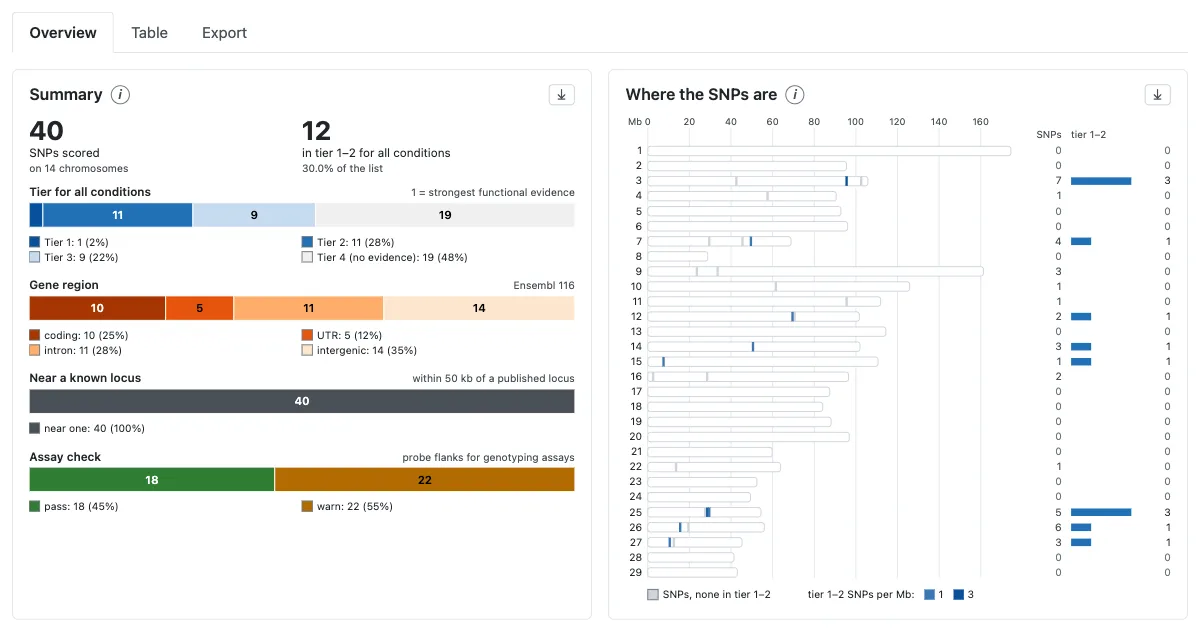
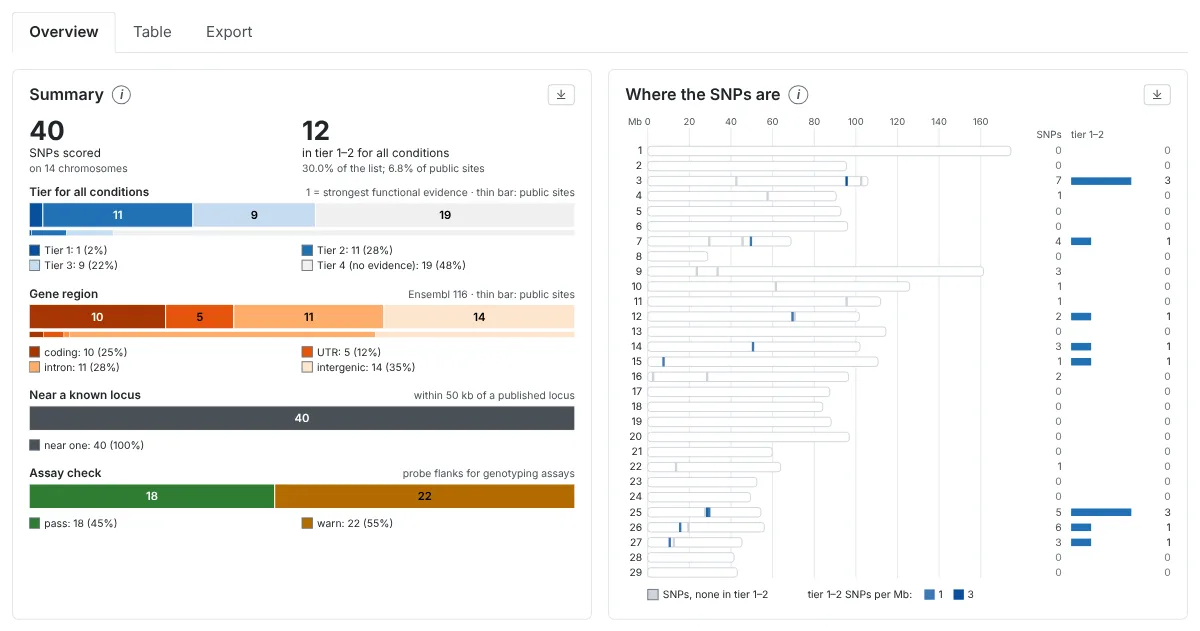
Guided tour: screenshots retaken after Push 3 (the Design panel's new cards)
Claude-Session: https://claude.ai/code/session_013tLMKGRbeL9wDnLD2URdT3

diff --git a/snpportal/snpportal/static/snpportal/tour/tour.css b/snpportal/snpportal/static/snpportal/tour/tour.css
@@ -1,39 +1,39 @@
 /* Written by `python manage.py tour_images` with the images: each slide's numbered callout boxes, in % of its image. */
 #tour-overview img { aspect-ratio: 1200 / 632; }
-#tour-overview-1 { left: 24.83%; top: 17.51%; width: 13.05%; height: 8.26%; }
+#tour-overview-1 { left: 24.83%; top: 17.51%; width: 12.96%; height: 8.42%; }
 #tour-overview-2 { left: 2.10%; top: 31.47%; width: 46.14%; height: 5.15%; }
 #tour-overview-3 { left: 50.34%; top: 10.28%; width: 48.99%; height: 88.45%; }
 #tour-overview-4 { left: 0.67%; top: 1.27%; width: 98.66%; height: 7.73%; }
-#tour-score img { aspect-ratio: 1200 / 524; }
-#tour-score-1 { left: 0.67%; top: 19.11%; width: 56.99%; height: 16.91%; }
-#tour-score-2 { left: 0.67%; top: 37.56%; width: 56.99%; height: 7.56%; }
-#tour-score-3 { left: 0.67%; top: 46.66%; width: 56.99%; height: 9.31%; }
-#tour-score-4 { left: 0.67%; top: 60.26%; width: 56.99%; height: 38.20%; }
-#tour-table img { aspect-ratio: 1200 / 619; }
-#tour-table-1 { left: 78.51%; top: 21.87%; width: 21.49%; height: 76.83%; }
-#tour-table-2 { left: 0.75%; top: 16.94%; width: 3.22%; height: 36.59%; }
-#tour-table-3 { left: 15.24%; top: 22.96%; width: 11.16%; height: 4.22%; }
-#tour-table-4 { left: 79.25%; top: 10.46%; width: 11.64%; height: 6.32%; }
+#tour-score img { aspect-ratio: 1200 / 523; }
+#tour-score-1 { left: 0.67%; top: 19.15%; width: 56.99%; height: 16.73%; }
+#tour-score-2 { left: 0.67%; top: 37.42%; width: 56.99%; height: 7.58%; }
+#tour-score-3 { left: 0.67%; top: 46.54%; width: 56.99%; height: 9.33%; }
+#tour-score-4 { left: 0.67%; top: 60.18%; width: 56.99%; height: 38.28%; }
+#tour-table img { aspect-ratio: 1200 / 637; }
+#tour-table-1 { left: 79.60%; top: 21.25%; width: 20.40%; height: 77.49%; }
+#tour-table-2 { left: 0.75%; top: 16.46%; width: 3.30%; height: 35.55%; }
+#tour-table-3 { left: 15.71%; top: 22.31%; width: 11.39%; height: 4.10%; }
+#tour-table-4 { left: 78.89%; top: 10.16%; width: 11.87%; height: 6.14%; }
 #tour-card img { aspect-ratio: 1200 / 667; }
-#tour-card-1 { left: 48.48%; top: 8.50%; width: 45.63%; height: 9.76%; }
-#tour-card-2 { left: 80.82%; top: 24.47%; width: 15.38%; height: 5.06%; }
+#tour-card-1 { left: 48.43%; top: 8.50%; width: 45.63%; height: 9.76%; }
+#tour-card-2 { left: 80.56%; top: 24.47%; width: 15.57%; height: 5.06%; }
 #tour-card-3 { left: 54.07%; top: 63.94%; width: 27.55%; height: 25.90%; }
 #tour-card-4 { left: 42.68%; top: 91.32%; width: 56.01%; height: 7.23%; }
-#tour-locus img { aspect-ratio: 1200 / 651; }
-#tour-locus-1 { left: 26.14%; top: 1.74%; width: 4.74%; height: 5.65%; }
-#tour-locus-2 { left: 0.63%; top: 20.76%; width: 98.74%; height: 20.29%; }
-#tour-locus-3 { left: 86.47%; top: 73.69%; width: 8.65%; height: 4.35%; }
-#tour-locus-4 { left: 0.63%; top: 93.62%; width: 94.97%; height: 5.22%; }
+#tour-locus img { aspect-ratio: 1200 / 657; }
+#tour-locus-1 { left: 26.17%; top: 1.72%; width: 4.84%; height: 5.60%; }
+#tour-locus-2 { left: 0.63%; top: 20.55%; width: 98.74%; height: 21.09%; }
+#tour-locus-3 { left: 86.49%; top: 73.96%; width: 8.63%; height: 4.30%; }
+#tour-locus-4 { left: 0.63%; top: 93.69%; width: 94.97%; height: 5.17%; }
 #tour-panel img { aspect-ratio: 1200 / 816; }
 #tour-panel-1 { left: 2.42%; top: 13.09%; width: 45.83%; height: 8.52%; }
-#tour-panel-2 { left: 2.42%; top: 35.52%; width: 45.83%; height: 24.15%; }
-#tour-panel-3 { left: 2.42%; top: 66.68%; width: 45.83%; height: 9.56%; }
+#tour-panel-2 { left: 2.42%; top: 35.38%; width: 45.83%; height: 24.15%; }
+#tour-panel-3 { left: 2.42%; top: 95.55%; width: 45.83%; height: 4.45%; }
 #tour-panel-4 { left: 50.33%; top: 6.47%; width: 48.67%; height: 22.08%; }
 #tour-gwas img { aspect-ratio: 1200 / 731; }
 #tour-gwas-1 { left: 71.23%; top: 36.28%; width: 2.04%; height: 3.35%; }
-#tour-gwas-2 { left: 2.04%; top: 82.59%; width: 24.25%; height: 16.37%; }
-#tour-gwas-3 { left: 41.59%; top: 82.59%; width: 32.03%; height: 16.37%; }
+#tour-gwas-2 { left: 2.04%; top: 82.59%; width: 24.28%; height: 16.37%; }
+#tour-gwas-3 { left: 41.79%; top: 82.59%; width: 31.72%; height: 16.37%; }
 #tour-more img { aspect-ratio: 1200 / 649; }
-#tour-more-1 { left: 34.12%; top: 0.00%; width: 9.31%; height: 7.45%; }
-#tour-more-2 { left: 42.69%; top: 0.00%; width: 11.22%; height: 7.45%; }
-#tour-more-3 { left: 43.95%; top: 6.10%; width: 15.33%; height: 41.03%; }
+#tour-more-1 { left: 34.57%; top: 0.00%; width: 9.43%; height: 7.45%; }
+#tour-more-2 { left: 43.27%; top: 0.00%; width: 11.56%; height: 7.45%; }
+#tour-more-3 { left: 44.94%; top: 6.10%; width: 15.33%; height: 41.03%; }
